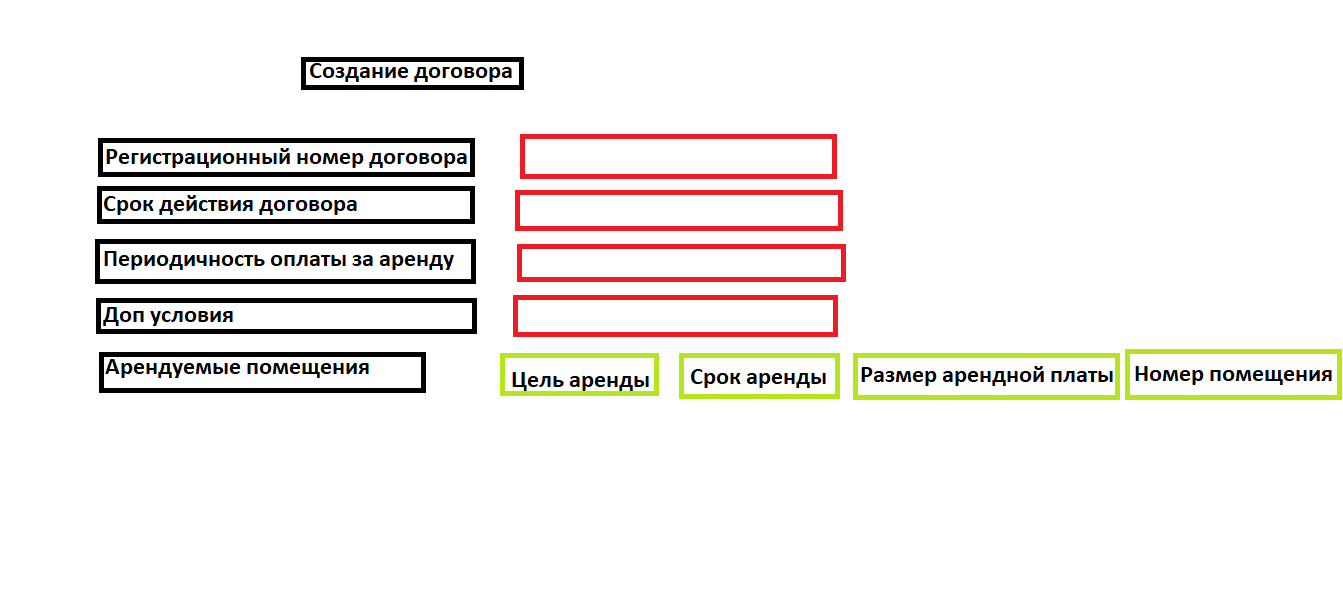
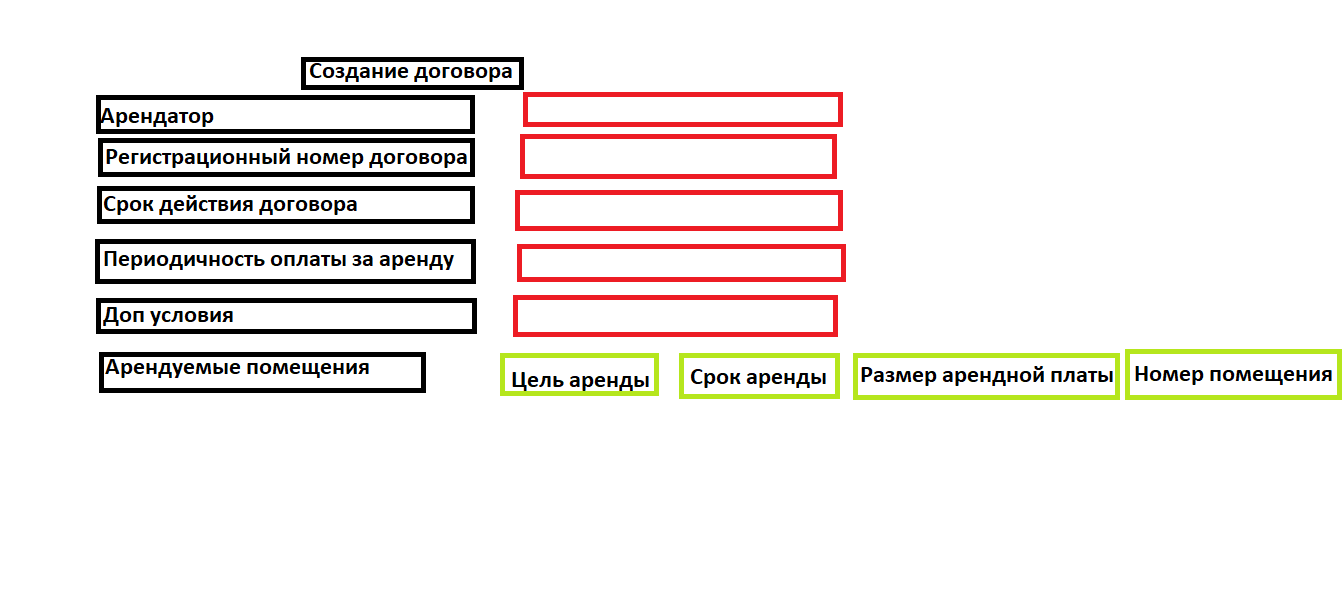
Ввод данных через частичное представление

Changed region(s): [[0.0611, 0.1236, 0.6411, 0.2163]]

diff --git a/Arenda/Controllers/ContractController.cs b/Arenda/Controllers/ContractController.cs
@@ -63,16 +63,22 @@ namespace Arenda.Controllers
             }
         }
 
-        public IActionResult GetRentedPremiseForm()
+        public IActionResult GetRentedPremiseForm(int index)
         {
             RentedPremiseViewModel viewModel = new RentedPremiseViewModel()
             {
                 Premises = _db.Premises.Select(i=>new SelectListItem()
                 {
-                    Text = i.PremiseNumber.ToString() + i.Building.NumberOfBuilding + i.Building.Street.Name,
+                    Text = $"{i.PremiseNumber} {i.Building.NumberOfBuilding} {i.Building.Street.Name}",
+                    Value = i.Id.ToString()
+                }),
+                RentPurposes = _db.RentPurposes.Select(i=>new SelectListItem()
+                {
+                    Text= i.Name,
                     Value = i.Id.ToString()
                 })
             };
+            ViewData["index"] = index;
             return PartialView("_RentedPremisePartial", viewModel);
         }
     }

diff --git a/Arenda/Models/ViewModel/ContractViewModel.cs b/Arenda/Models/ViewModel/ContractViewModel.cs
@@ -7,6 +7,7 @@ namespace Arenda.Models.ViewModel
         public Contract Contract { get; set; }
         public IEnumerable<SelectListItem>? PaymentFrequencySelectList { get; set; }
         public IEnumerable<SelectListItem>? ArendatorSelectList { get; set; }
+        public List<RentedPremiseViewModel> rentedPremiseViewModels { get; set; }
         public IEnumerable<RentedPremise> RentedPremises { get; set; }
     }
 }

diff --git a/Arenda/Models/Contract.cs b/Arenda/Models/Contract.cs
@@ -22,6 +22,7 @@ namespace Arenda.Models
         public DateTime? StartOfContract { get; set; }
         public DateTime? EndOfContract { get; set; }
 
+        [Display(Name = "Дополнительная информация")]
         public string? AdditionalInfo { get; set; }
 
         public List<RentedPremise> rentedPremises { get; set; }

diff --git a/Arenda/Models/RentedPremise.cs b/Arenda/Models/RentedPremise.cs
@@ -21,6 +21,8 @@ namespace Arenda.Models
         public Contract? Contract { get; set; }
 
         public int RentCost { get; set; }
+
+        public string RentalPeriod { get; set; }
     }
 
     public class RentPurpose
